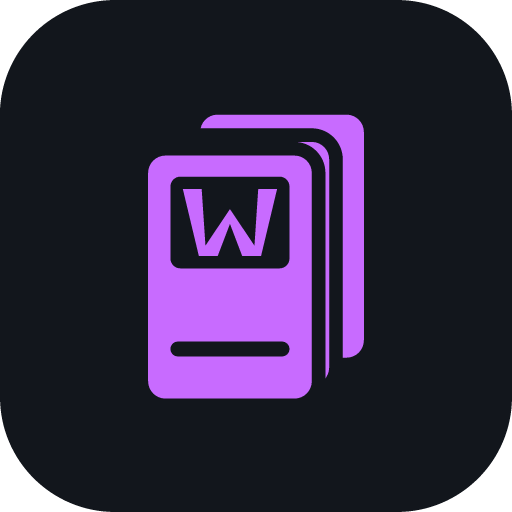
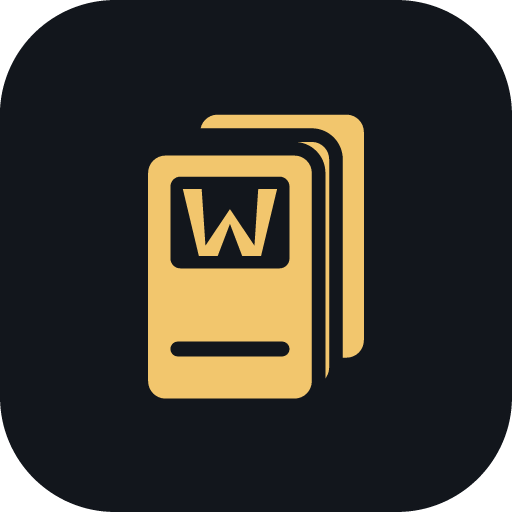
Icône dorée, accordée à la nouvelle interface

Changed region(s): [[0.2812, 0.2188, 0.7188, 0.7812]]

diff --git a/sw.js b/sw.js
@@ -3,7 +3,7 @@
 // Tout ce qui est servi (shell, data/*.json, images) est mis en cache au vol,
 // donc l'app reste 100% fonctionnelle hors-ligne après la première visite.
 
-const CACHE = 'wikideck-v10-serveur';
+const CACHE = 'wikideck-v11-icone-or';
 
 const COQUILLE = [
   './', './index.html', './manifest.json', './css/app.css', './css/ouverture.css', './css/jeu.css',
